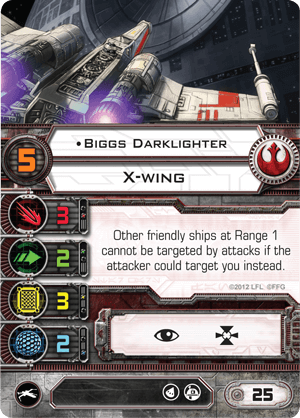
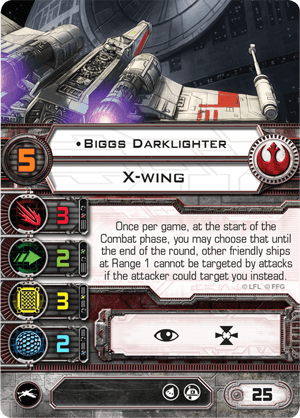
New: X-Wing FAQ v4.4.0 🔥
https://www.fantasyflightgames.com/en/news/2017/10/25/new-squadron-formations/

diff --git a/data/pilots.js b/data/pilots.js
@@ -71,7 +71,7 @@
       "Torpedo",
       "Astromech"
     ],
-    "text": "Other friendly small and large ships at Range 1 cannot be targeted by attacks if the attacker could target you instead.",
+    "text": "Once per game, at the start of the Combat phase, you may choose that until the end of the round, other friendly ships at Range 1 cannot be targeted by attacks if the attacker could target you instead.",
     "image": "pilots/Rebel Alliance/X-wing/biggs-darklighter.png",
     "faction": "Rebel Alliance",
     "xws": "biggsdarklighter"
@@ -2662,10 +2662,7 @@
     "faction": "Scum and Villainy",
     "slots": [
       "Elite",
-      "Torpedo",
-      "Torpedo",
       "Crew",
-      "Salvaged Astromech",
       "Illicit"
     ],
     "id": 161,
@@ -3048,10 +3045,7 @@
     "slots": [
       "Crew",
       "Elite",
-      "Illicit",
-      "Salvaged Astromech",
-      "Torpedo",
-      "Torpedo"
+      "Illicit"
     ],
     "id": 183
   },
@@ -3068,9 +3062,6 @@
     "slots": [
       "Elite",
       "Illicit",
-      "Salvaged Astromech",
-      "Torpedo",
-      "Torpedo",
       "Crew"
     ],
     "id": 184
@@ -3088,10 +3079,7 @@
     "slots": [
       "Crew",
       "Elite",
-      "Illicit",
-      "Salvaged Astromech",
-      "Torpedo",
-      "Torpedo"
+      "Illicit"
     ],
     "id": 185
   },

diff --git a/data/upgrades.js b/data/upgrades.js
@@ -1145,7 +1145,7 @@
     "unique": true,
     "slot": "Salvaged Astromech",
     "points": 0,
-    "text": "If you are equipped with a bomb that can be dropped when you reveal your maneuver, you may drop the bomb after you execute your maneuver instead.",
+    "text": "After you reveal and execute a maneuver, if you did not overlap a ship, you may discard 1 of your equipped [Bomb] Upgrade cards without the \"<strong>Action:</strong>\" header to drop the corresponding bomb token.",
     "image": "upgrades/Salvaged Astromech/genius.png",
     "xws": "genius"
   },
@@ -2747,6 +2747,7 @@
     "points": 1,
     "slot": "Elite",
     "faction": "Scum and Villainy",
+    "squadLimited": 2,
     "id": 236
   },
   {
